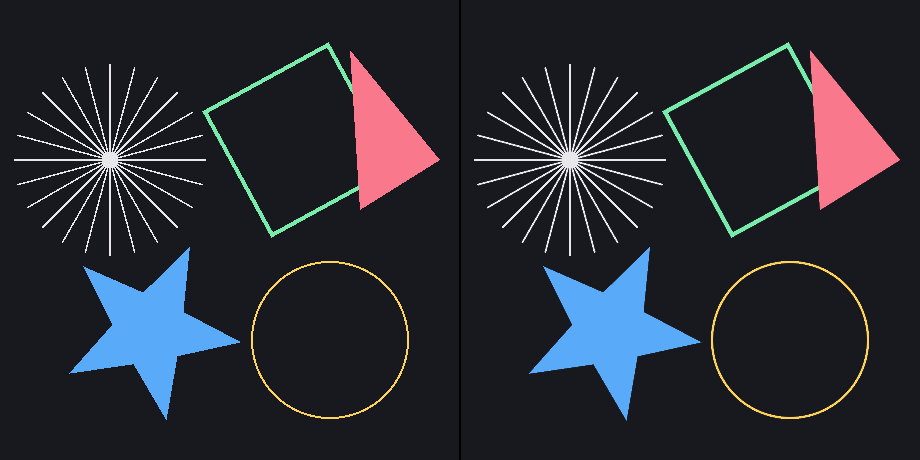
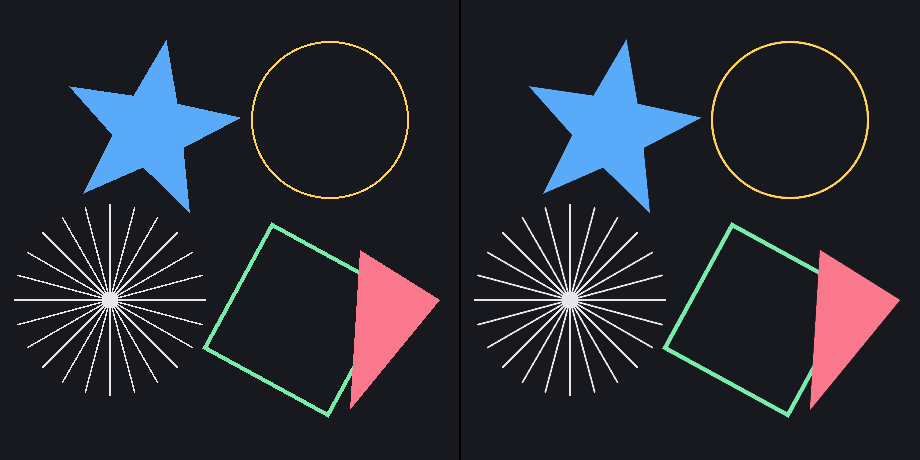
fix(examples): remove double vertical flip in AA showcase capture
Canvas::readPixelsRGBA already returns top-left-origin rows (the GL device flips the bottom-up glReadPixels result), but the showcase additionally called stbi_flip_vertically_on_write(1), so every exported comparison PNG was upside-down. Symmetric shapes hid it; the flip only became obvious once geometry text was added and rendered inverted. Removed the redundant flip so aa/gradient/shadow_comparison.png are now correctly oriented, and restored the geometry-text sample to the shadow scene to demonstrate the text Gaussian shadow (now upright and correctly positioned in both panels thanks to the pen-origin fix).

diff --git a/examples/aa_showcase/main.cpp b/examples/aa_showcase/main.cpp
@@ -239,6 +239,15 @@ void drawShadowScene(Canvas &canvas, float ox, bool strong)
         p.setShadowLayer(radius, dx, dy, shadow);
         canvas.drawRoundRect(RectF(ox + 265.0f, 210.0f, 150.0f, 120.0f), 26.0f, p);
     }
+    // Geometry text: exercises the Gaussian shadow for glyph triangles.
+    {
+        Paint p;
+        p.setStyle(Paint::Style::FILL);
+        p.setFillColor(Color(60, 70, 95));
+        p.setTextSize(40.0f);
+        p.setShadowLayer(radius, dx, dy, shadow);
+        canvas.drawText("Shadow", ox + 60.0f, 380.0f, p);
+    }
 }
 
 std::string getEnv(const char *name)
@@ -304,7 +313,8 @@ int main(int argc, char **argv)
         Canvas canvas;
         canvas.setSize(fbWidth, fbHeight);
 
-        stbi_flip_vertically_on_write(1); // GL readback is bottom-up
+        // Canvas::readPixelsRGBA already returns top-left-origin rows, so the
+        // stb writer must NOT flip again (doing so produced upside-down images).
 
         // Renders `scene` into both panels and writes the framebuffer to `path`.
         auto renderAndSave = [&](const std::string &path,
